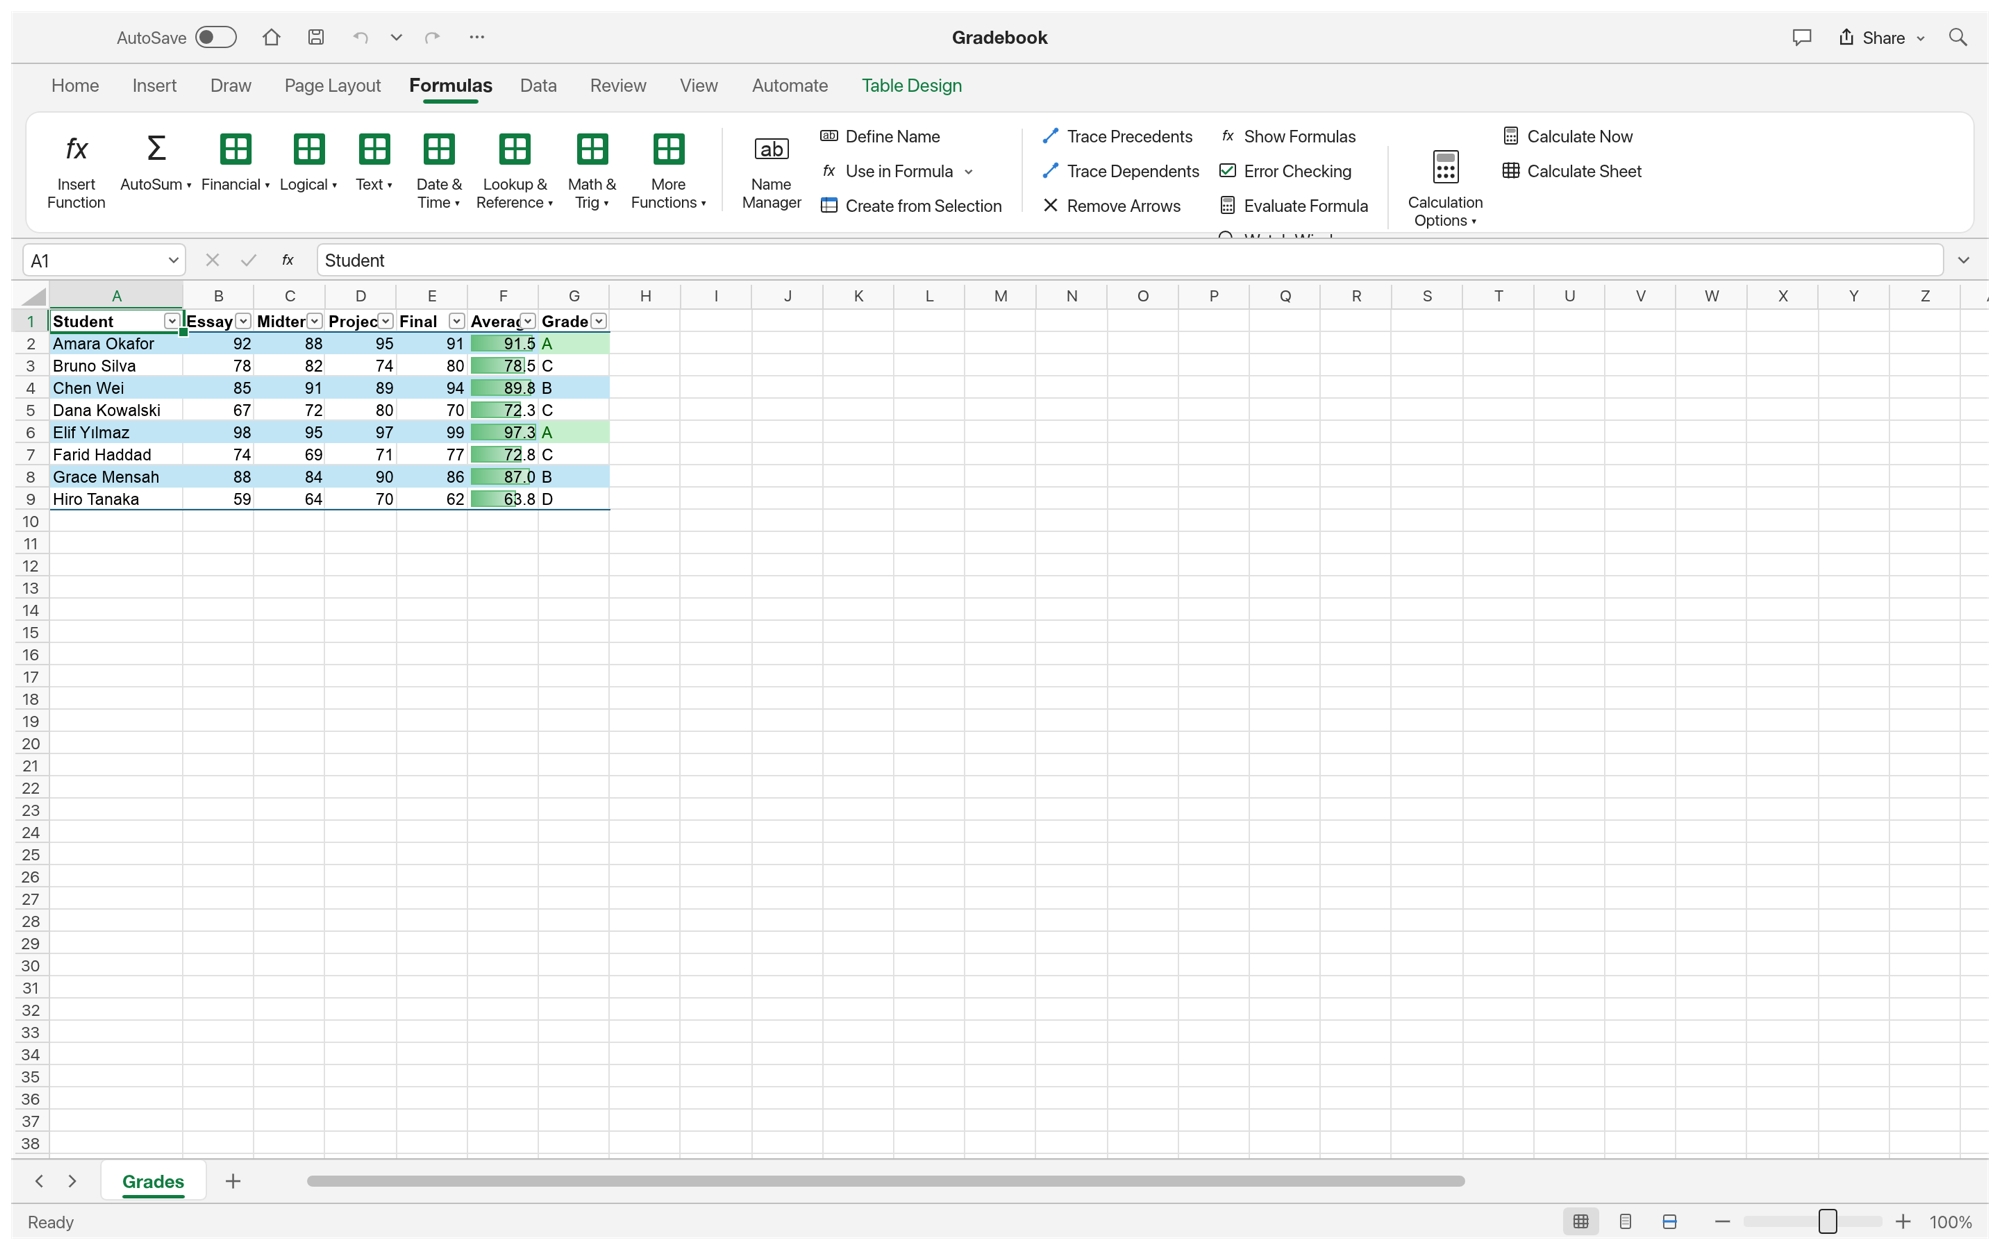
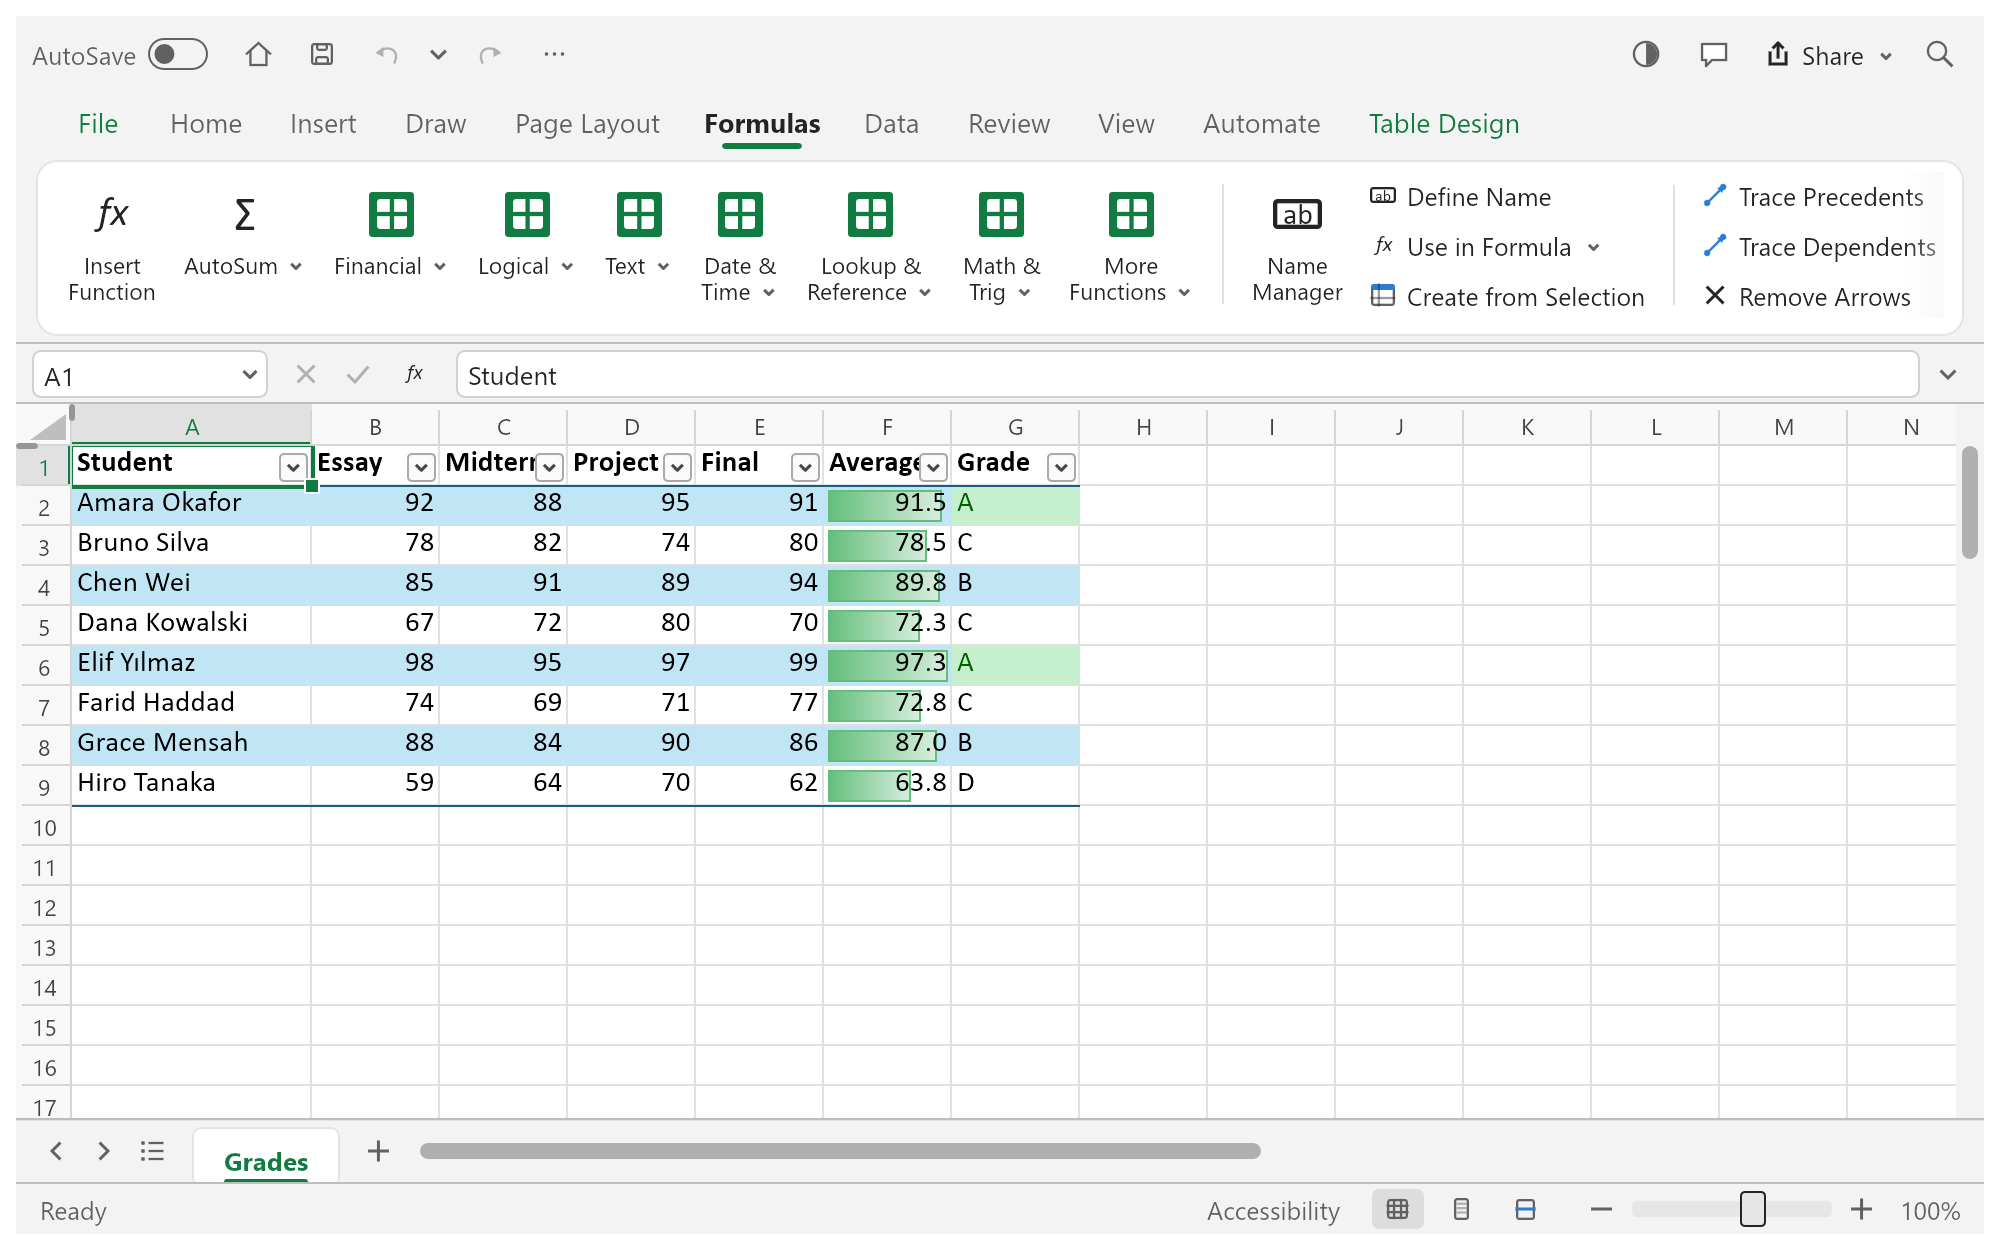
P23: re-render the Formulas-tab screenshot — the clipped ribbon was a stale capture, not a layout bug

diff --git a/ATTRIBUTION.md b/ATTRIBUTION.md
@@ -28,7 +28,7 @@ Generated-in-code art is original and has no file to list: the UI icon set (`cra
 | `assets/app-icon/LICENSE.txt` | (licence text) | original | — | Licence of the app icon files |
 | `docs/images/hero-sales.png` | Cella contributors | screenshot of Cella rendered offscreen (`crates/ui-egui/examples/snapshot.rs`) showing an original sample workbook | MIT OR Apache-2.0 | README screenshot; no third-party content |
 | `docs/images/budget.png` | Cella contributors | screenshot of Cella rendered offscreen (`crates/ui-egui/examples/snapshot.rs`) showing an original sample workbook | MIT OR Apache-2.0 | README screenshot; no third-party content |
-| `docs/images/grades-formulas.png` | Cella contributors | screenshot of Cella rendered offscreen (`crates/ui-egui/examples/snapshot.rs`) showing an original sample workbook | MIT OR Apache-2.0 | README screenshot; no third-party content |
+| `docs/images/grades-formulas.png` | Cella contributors | screenshot of Cella rendered offscreen (`crates/ui-egui/examples/snapshot.rs`) showing an original sample workbook | MIT OR Apache-2.0 | README screenshot; no third-party content. Re-rendered 2026-11-18: the 10-08 capture showed the Formulas tab's last groups clipped below the ribbon card, which the current layout no longer does |
 | `docs/images/dark-insert.png` | Cella contributors | screenshot of Cella rendered offscreen (`crates/ui-egui/examples/snapshot.rs`) showing an original sample workbook | MIT OR Apache-2.0 | README screenshot; no third-party content |
 | `docs/images/pivot.png` | Cella contributors | screenshot of Cella rendered offscreen (`crates/ui-egui/examples/snapshot.rs`) showing an original sample workbook | MIT OR Apache-2.0 | README screenshot; no third-party content |
 | `docs/images/format-chart.png` | Cella contributors | screenshot of Cella rendered offscreen (`crates/ui-egui/examples/snapshot.rs`) showing an original sample workbook | MIT OR Apache-2.0 | README screenshot; no third-party content |
